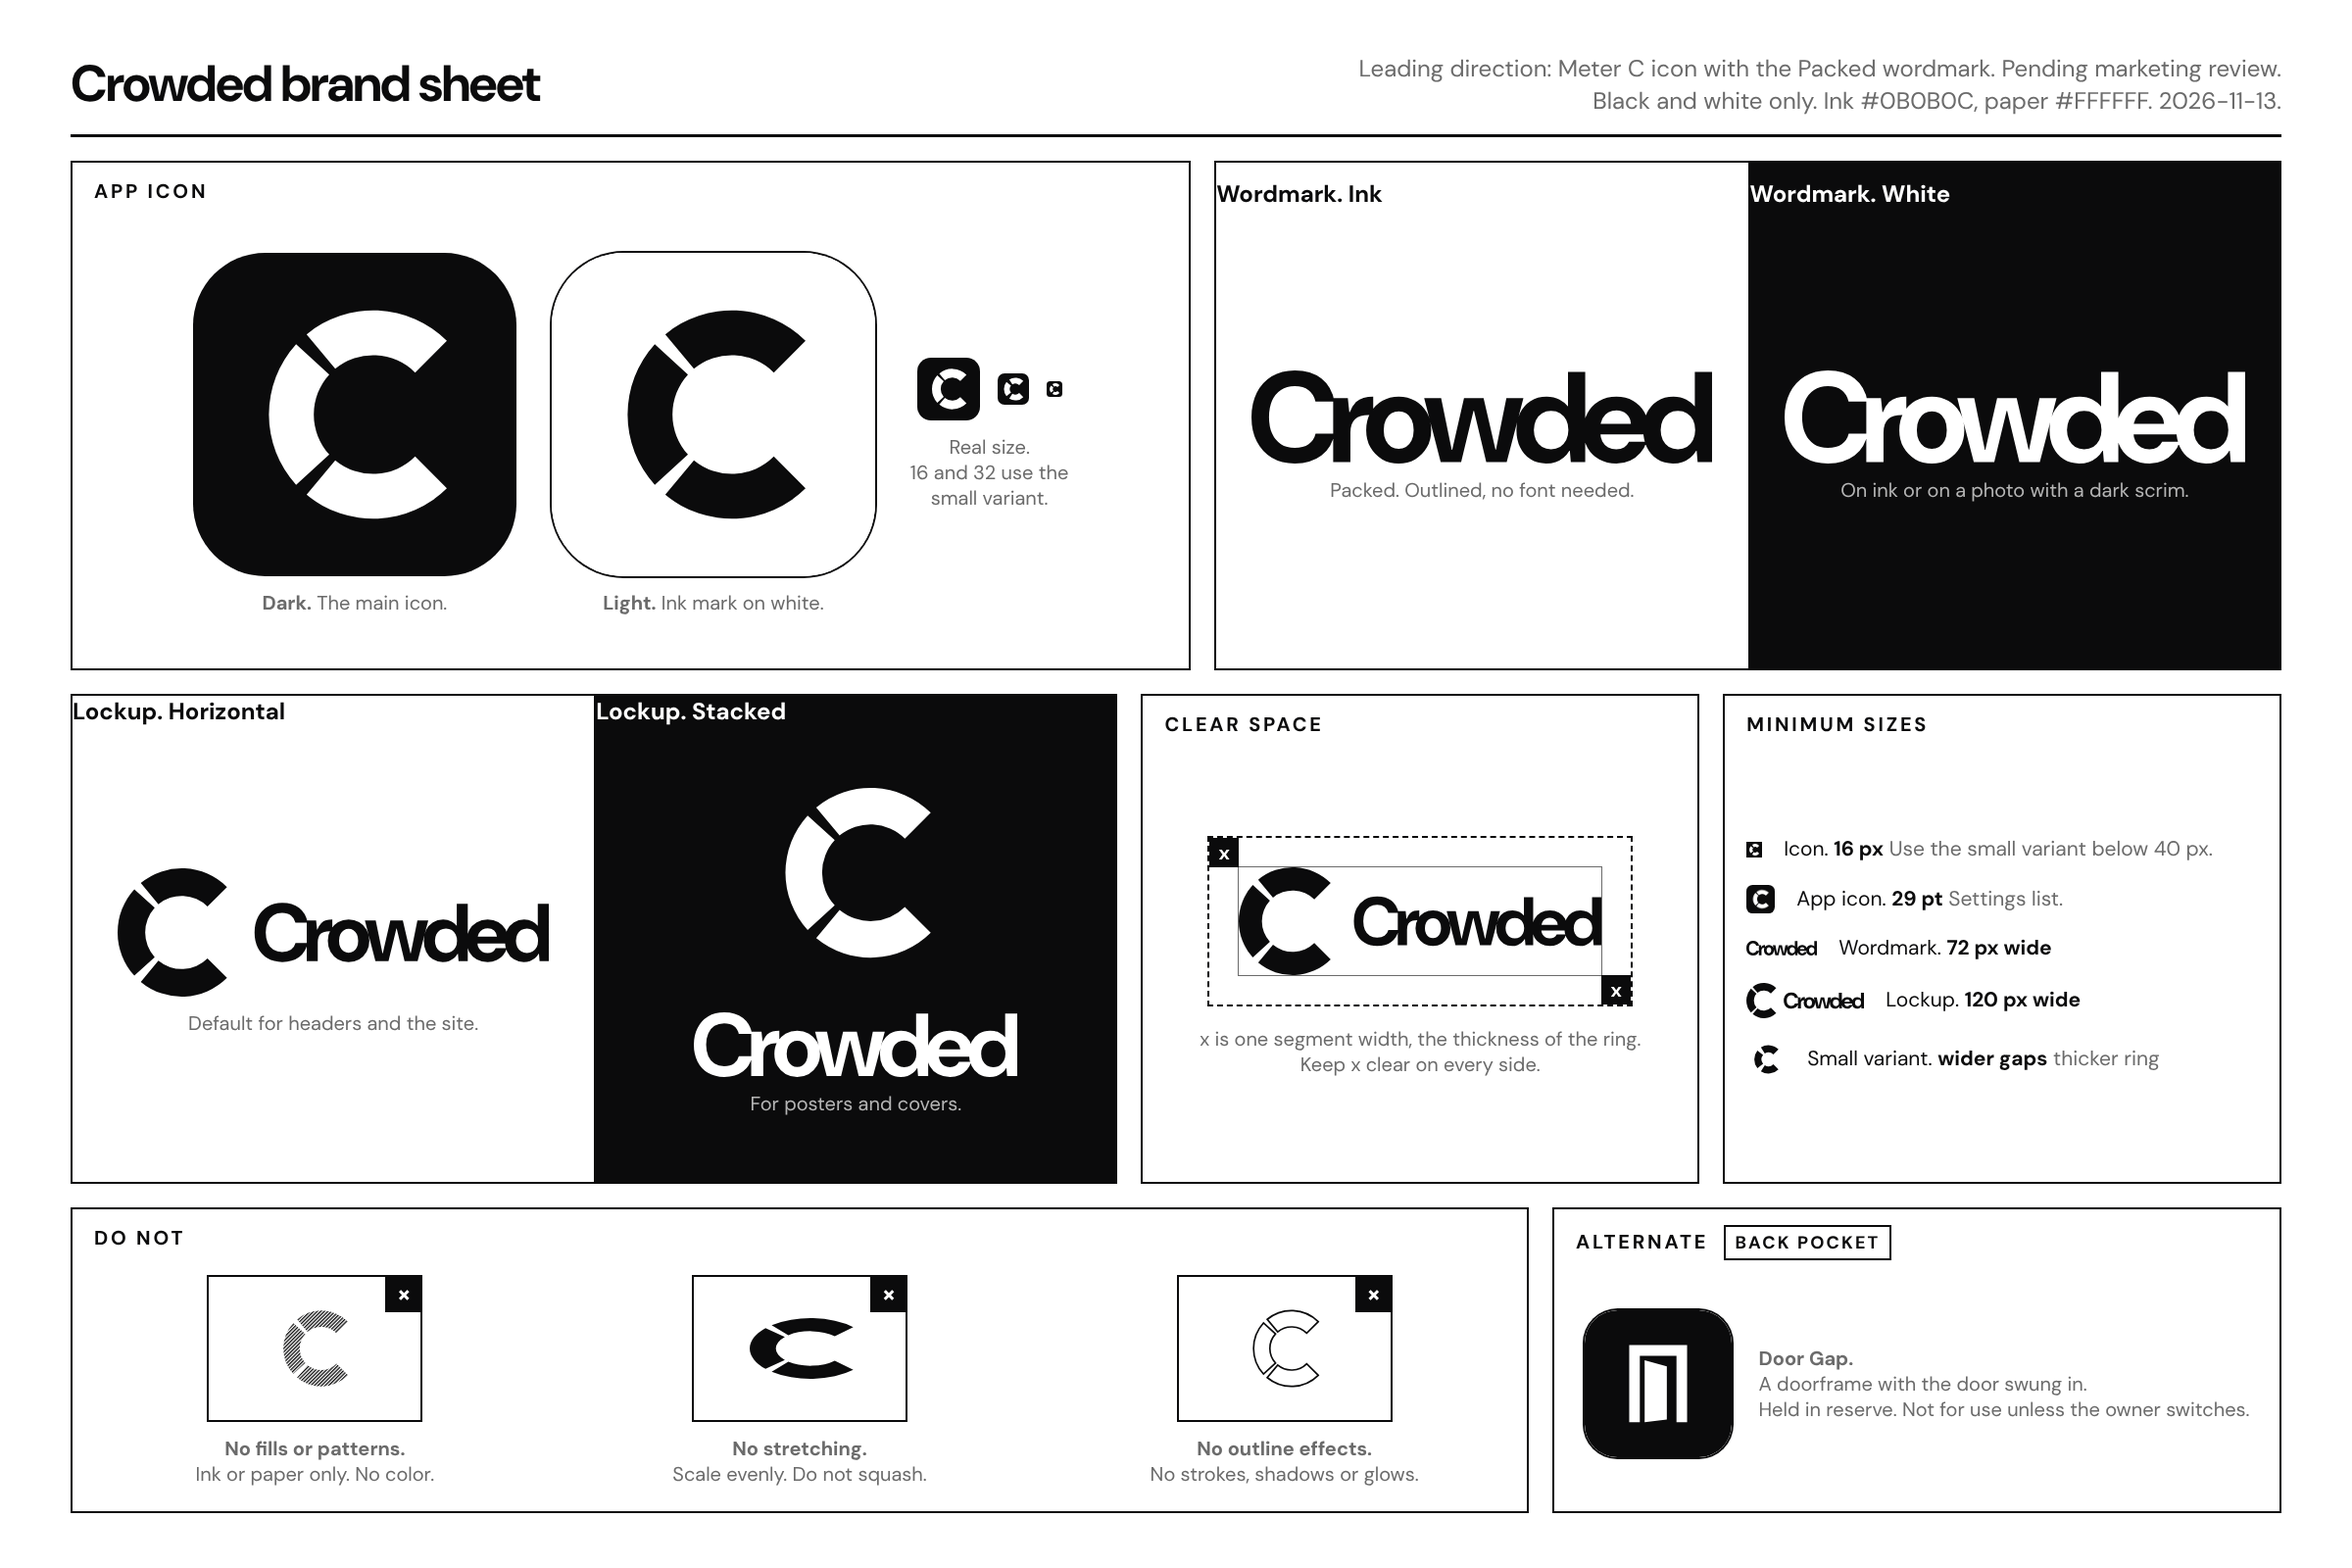
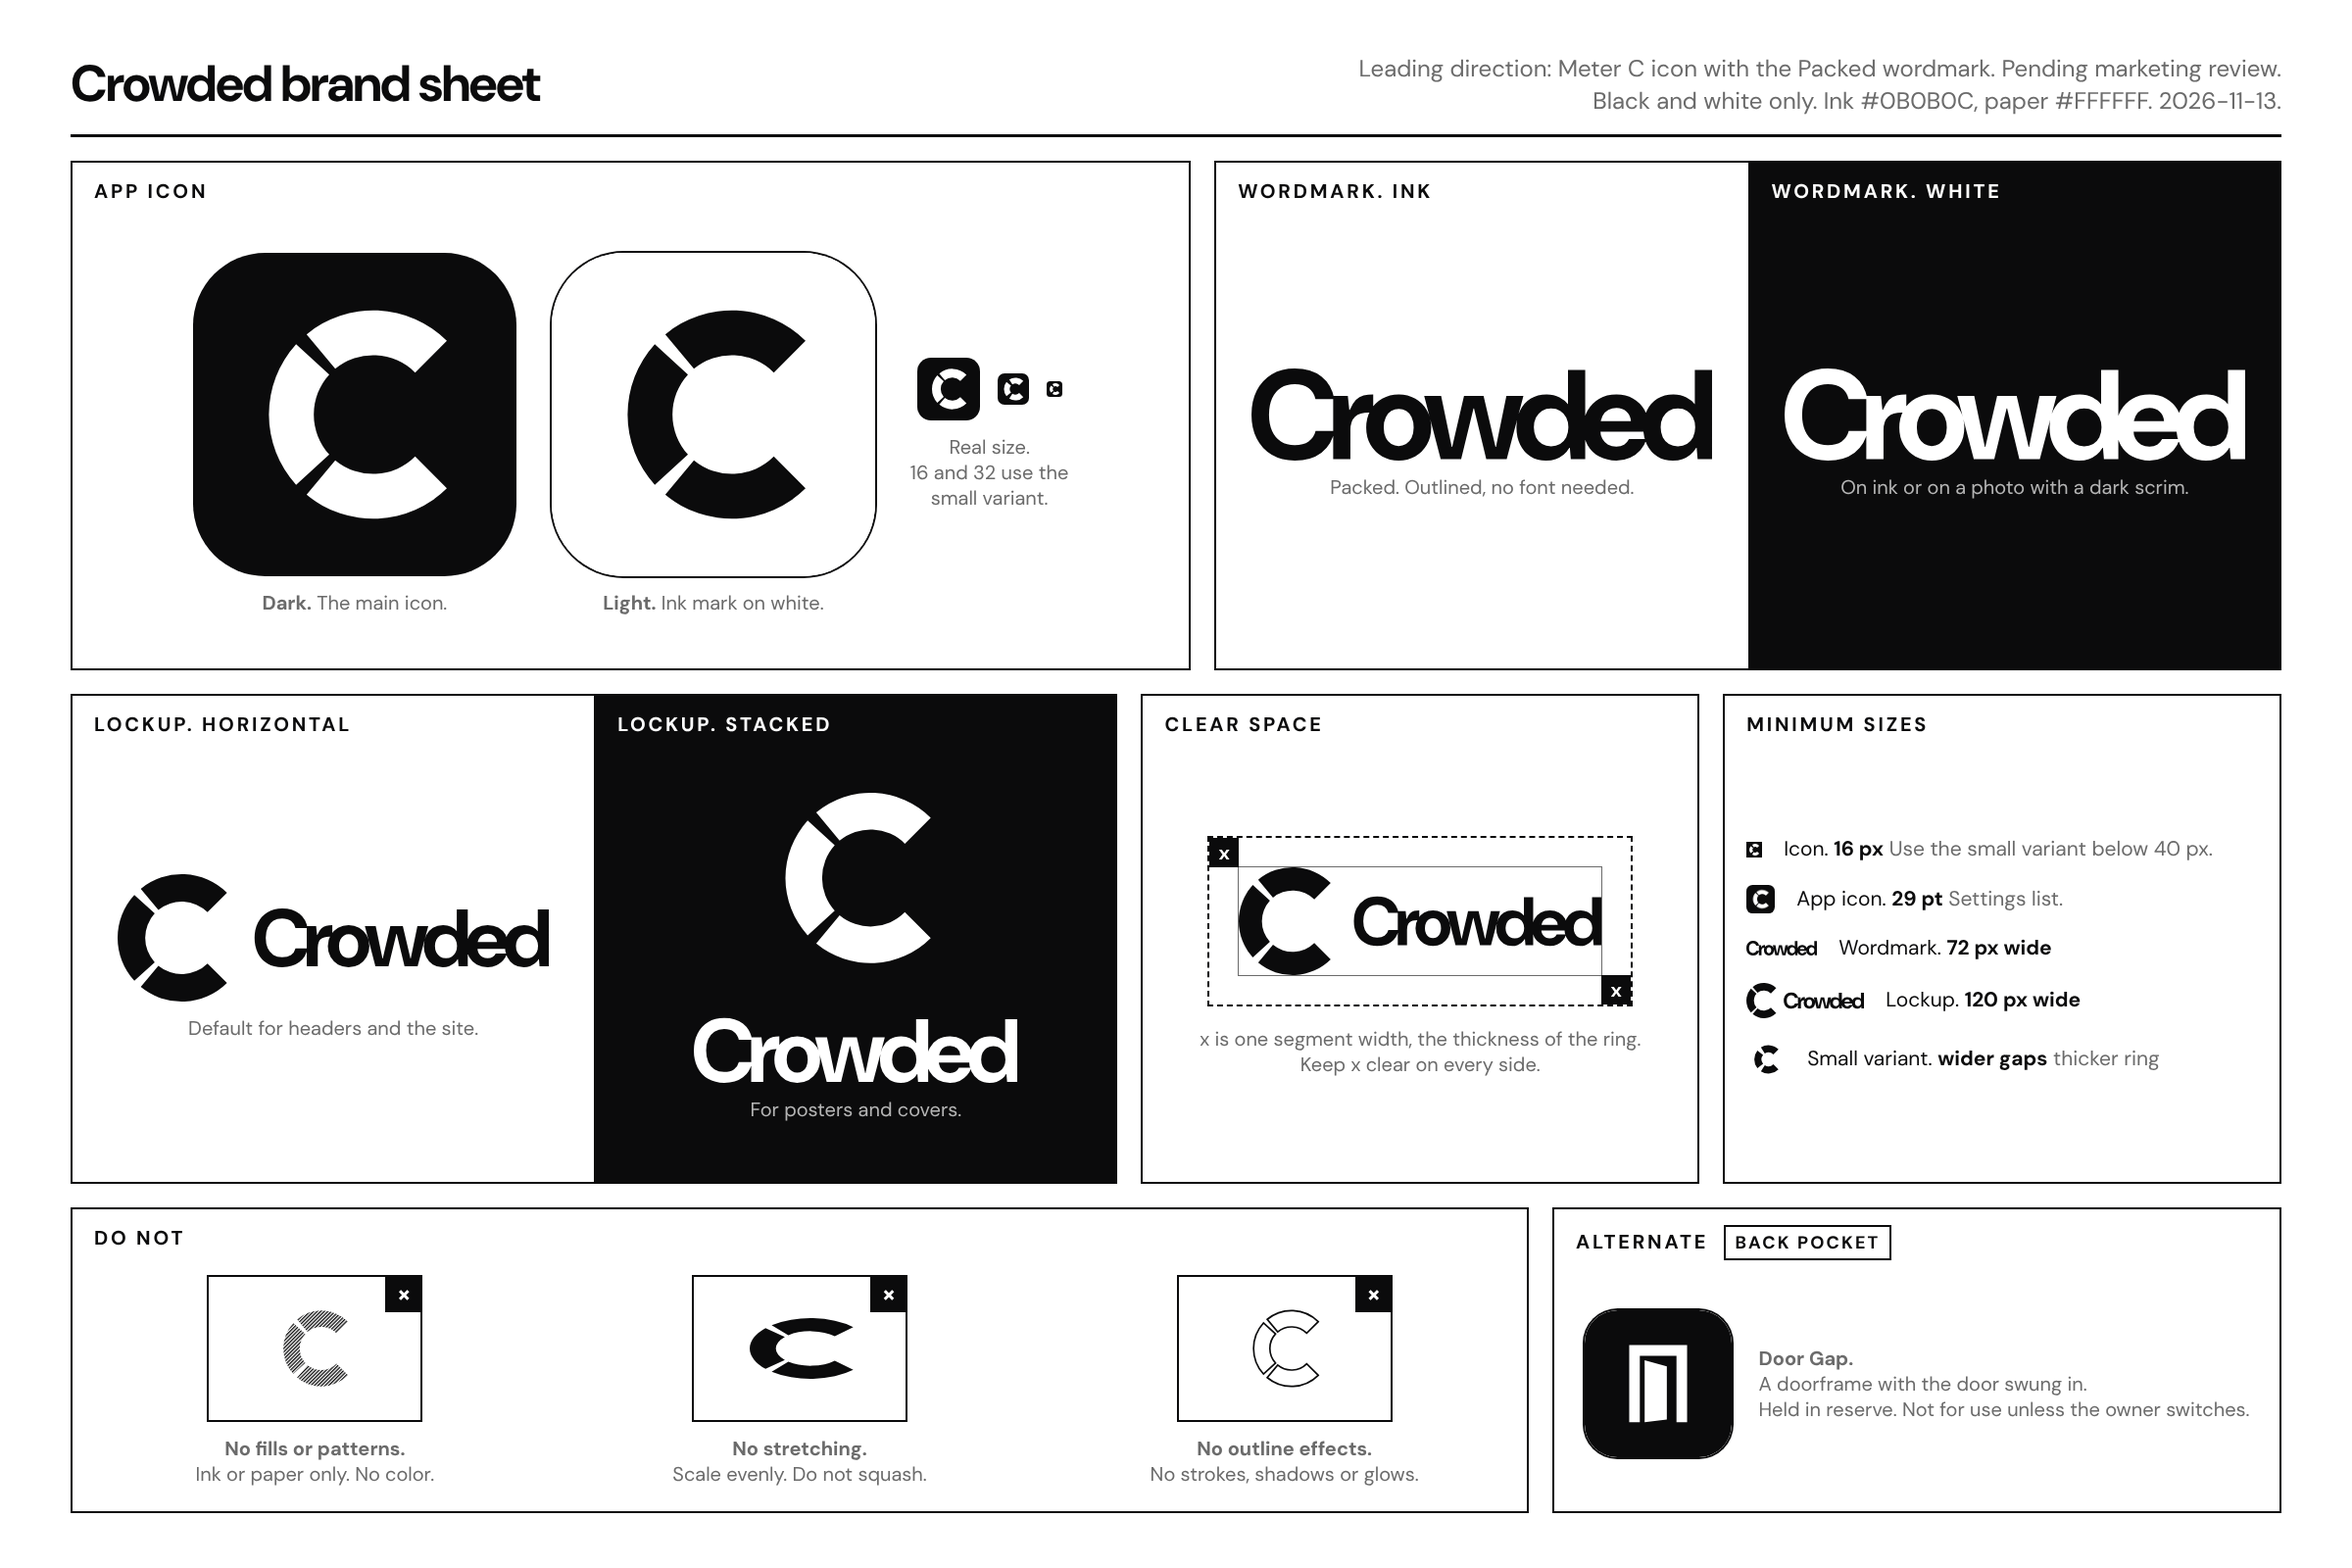
Brand sheet: pad the wordmark and lockup panel titles
Claude-Session: https://claude.ai/code/session_01SbuuWf2ZB1HkurjV4Tqpyn

diff --git a/marketing/brand/final/sheet.html b/marketing/brand/final/sheet.html
@@ -22,7 +22,7 @@ header p { font-size: 24px; color: var(--grey); text-align: right; line-height: 
 .b { grid-template-columns: 1.5fr 0.8fr 0.8fr; }
 .c { grid-template-columns: 2fr 1fr; }
 .panel { border: 2px solid var(--ink); position: relative; display: flex; flex-direction: column; min-height: 0; }
-.panel > h2 { font-size: 20px; letter-spacing: 0.14em; text-transform: uppercase; font-weight: 700; padding: 16px 22px 0; }
+.panel > h2, .half > div > h2 { font-size: 20px; letter-spacing: 0.14em; text-transform: uppercase; font-weight: 700; padding: 16px 22px 0; }
 .panel > .cap { font-size: 20px; color: var(--grey); }
 .body { flex: 1; display: flex; align-items: center; justify-content: center; gap: 36px; padding: 18px 22px 22px; min-height: 0; }
 .cap { font-size: 20px; color: var(--grey); line-height: 1.3; }
@@ -105,11 +105,11 @@ header p { font-size: 24px; color: var(--grey); text-align: right; line-height: 
   </section>
   <section class="panel half">
     <div>
-      <h2 style="padding-top:16px">Wordmark. Ink</h2>
+      <h2>Wordmark. Ink</h2>
       <div class="body"><img class="wm" src="wordmark.svg" alt="Crowded wordmark"><span class="cap">Packed. Outlined, no font needed.</span></div>
     </div>
     <div class="ink">
-      <h2 style="padding-top:16px">Wordmark. White</h2>
+      <h2>Wordmark. White</h2>
       <div class="body"><img class="wm" src="wordmark-white.svg" alt="Crowded wordmark, white"><span class="cap">On ink or on a photo with a dark scrim.</span></div>
     </div>
   </section>
